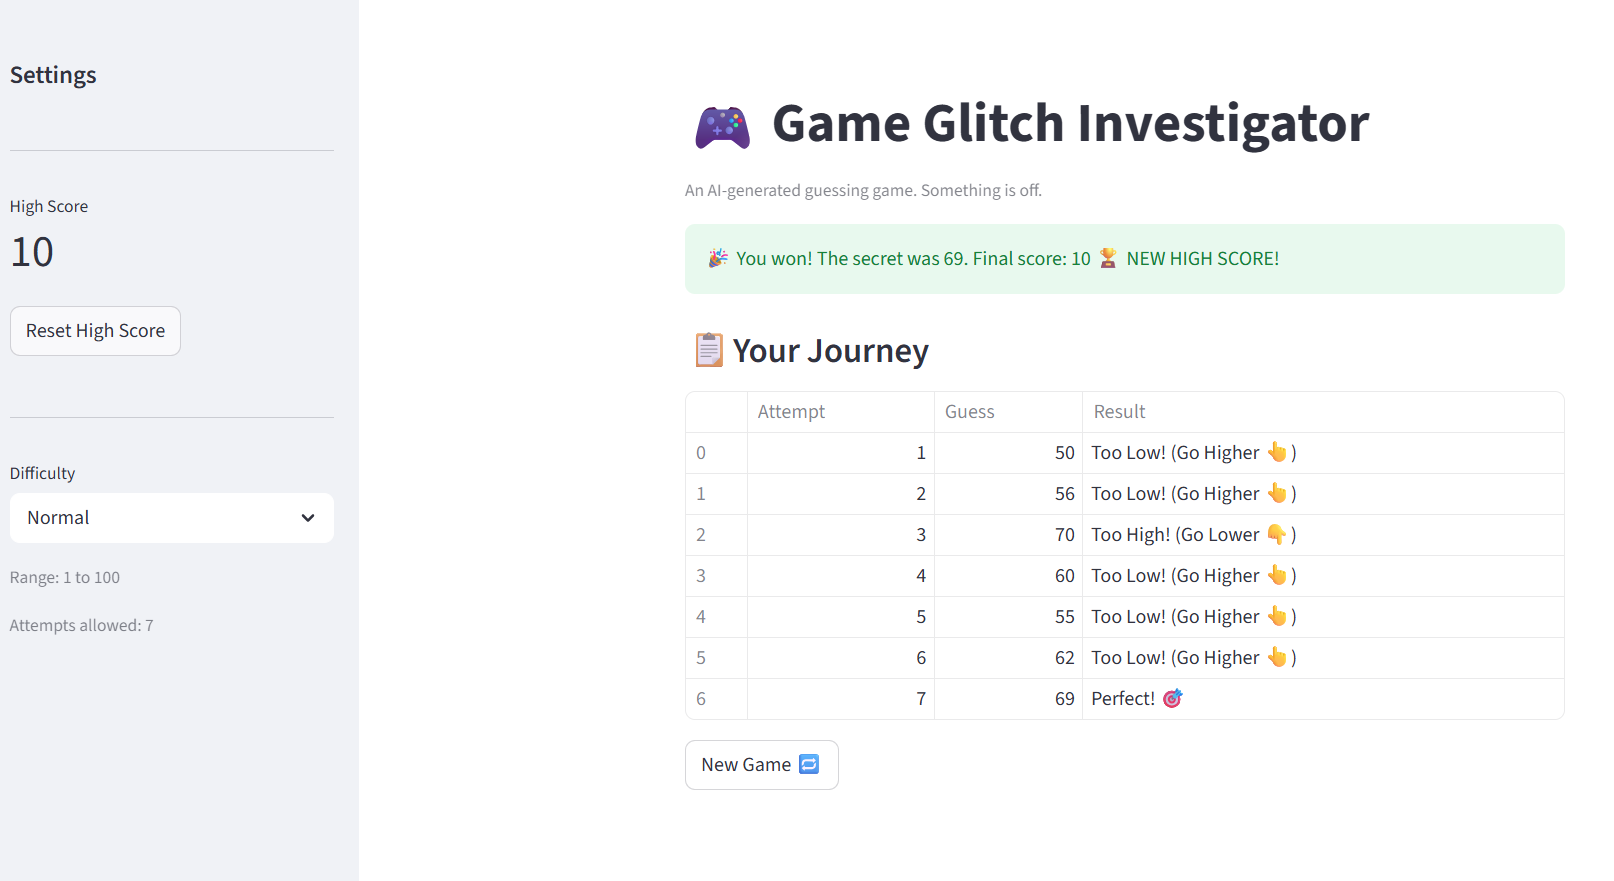
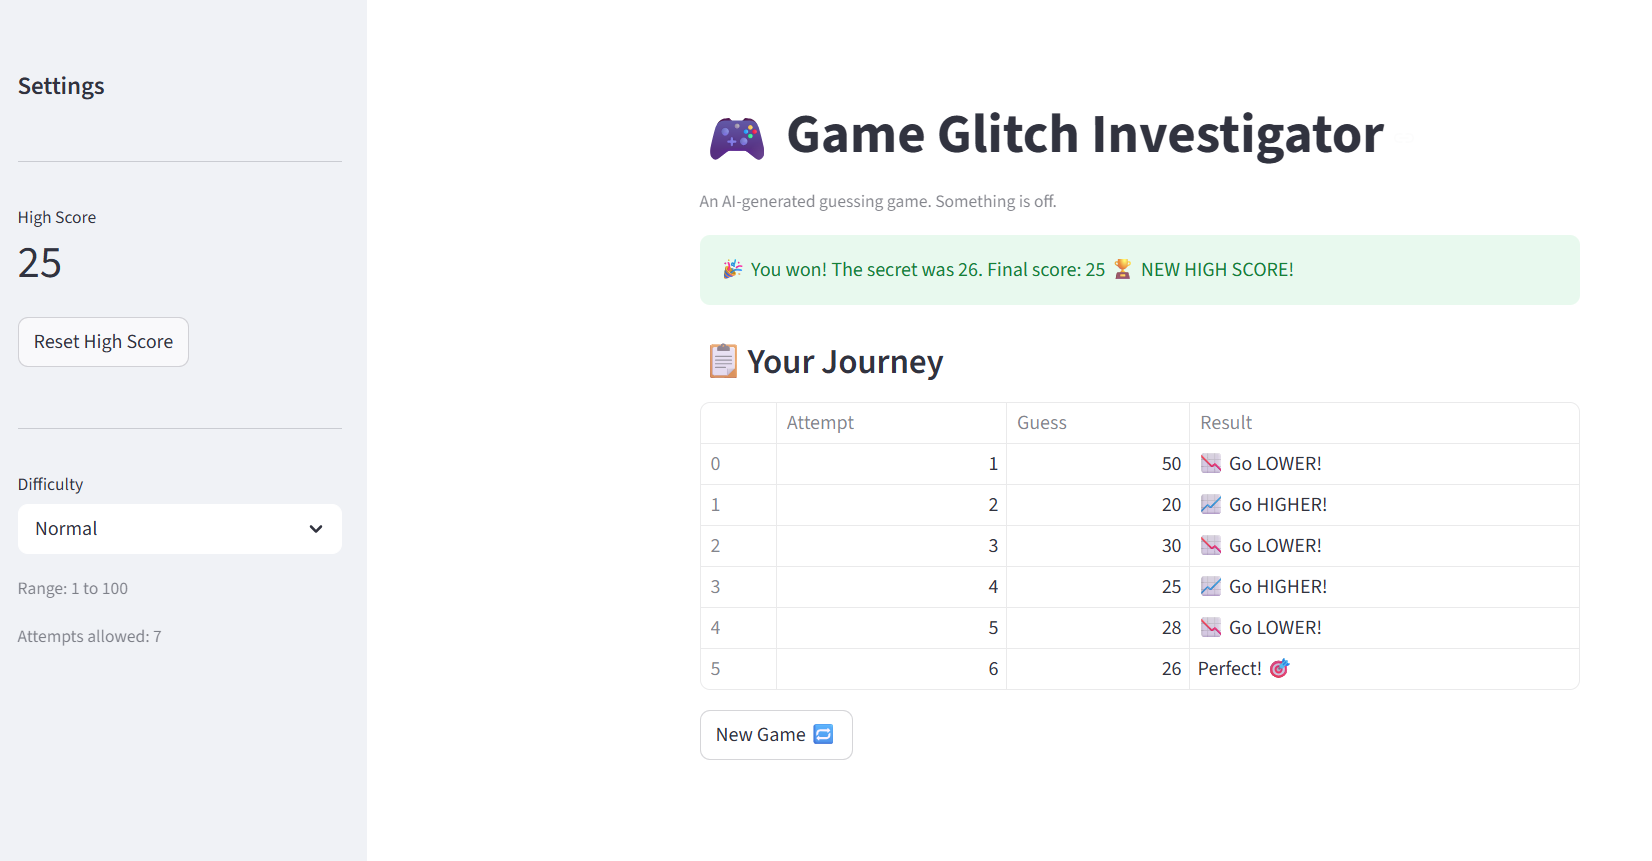
feat: Challenge 5 completed

diff --git a/reflection.md b/reflection.md
@@ -69,3 +69,8 @@ This project made me realize the importance of testing AI generated code and als
 
 ## Challenge 5: AI Model Comparison
 
+I told ChatGPT and Gemini that the hints in the game were backwards, and I asked them to fix the code.
+
+Both models gave me a similar fix. However, Gemini went a step further by fixing the section of the code that randomly converts the secret number into a string on even-numbered attempts. It then provided a final solution for the bug I reported, along with an extra piece of code to ensure both the guess and the secret number are integers before comparing them.
+
+Overall, I think Gemini’s fix is more complete.
